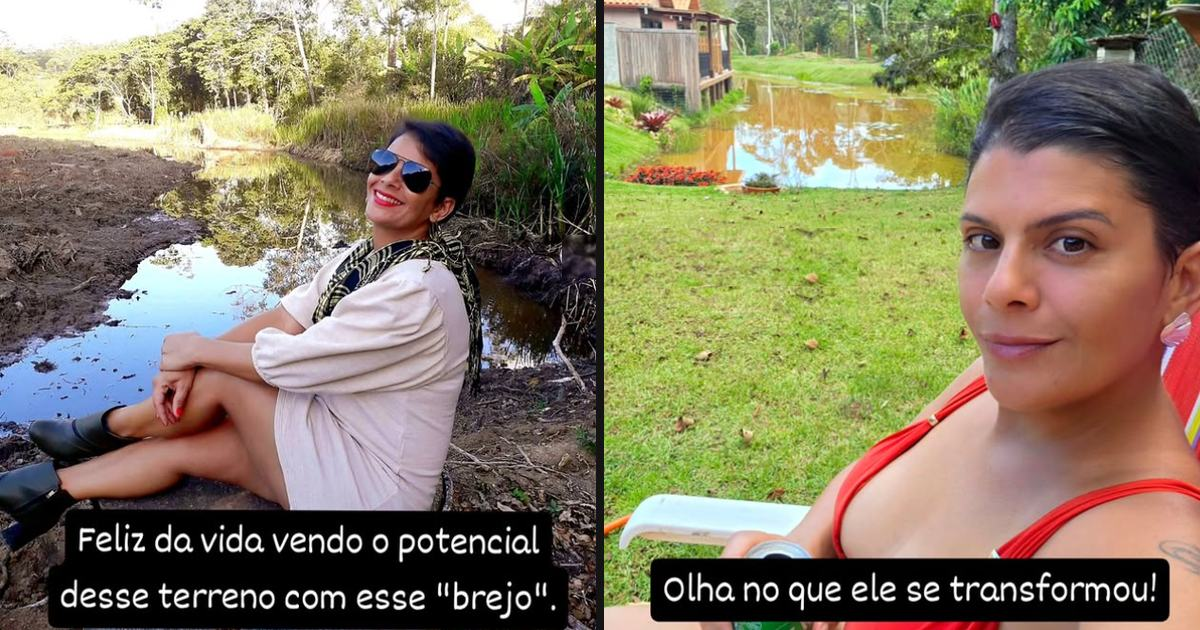
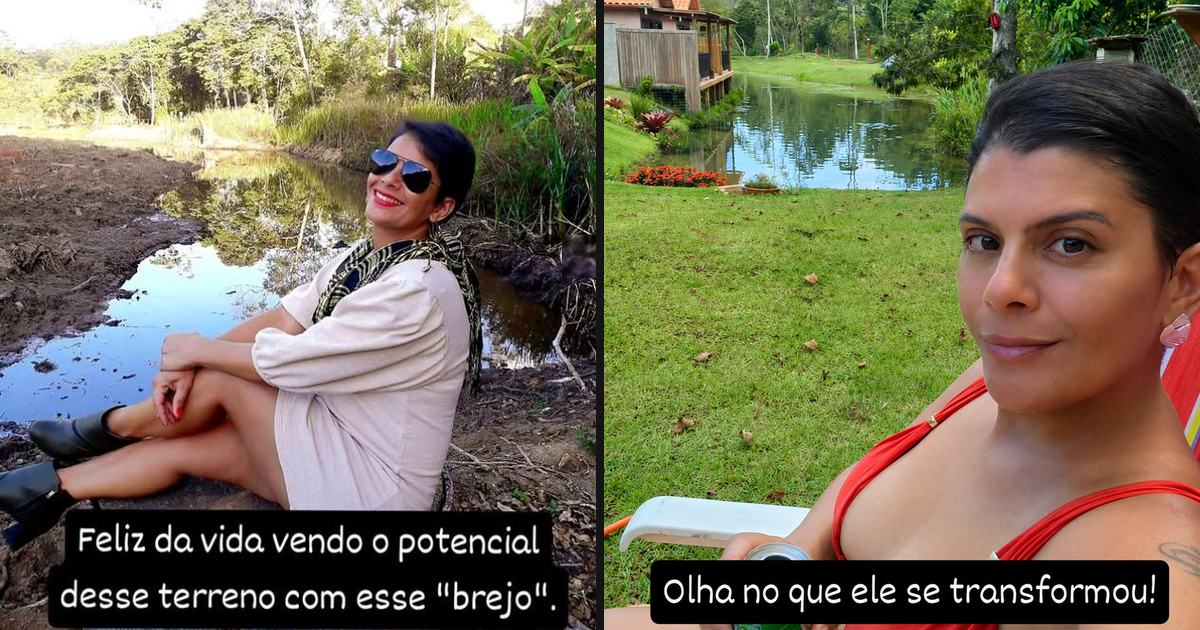
Atualiza foto do depois e ajusta trechos do artigo do lago

Changed region(s): [[0.4933, 0.0, 1.0, 1.0], [0.8017, 0.754, 0.8633, 0.8143]]

diff --git a/blog/brejo-virou-lago-potencial-do-terreno.html b/blog/brejo-virou-lago-potencial-do-terreno.html
@@ -81,7 +81,7 @@ function gtag_report_conversion(url) {
   <article class="post">
     <p class="post-meta"><a href="index.html" style="color:var(--teal);font-weight:700;">← Caderno de Campo</a> · 11 de agosto de 2026 · Antes e Depois</p>
     <h1>O "brejo" que virou lago: como olhar o potencial de um terreno</h1>
-    <p class="lede">Às vezes a gente vê uma área onde só tem terra e mato, e não consegue imaginar que aquilo pode se transformar num oásis, com criatividade, vontade e dedicação. Foi exatamente o que quase todo mundo viu no nosso pedaço de chão — e é justamente por isso que ele caiu no nosso preço.</p>
+    <p class="lede">Às vezes a gente vê uma área onde só tem terra e mato, e não consegue imaginar que aquilo pode se transformar num oásis, com criatividade, vontade e dedicação. Foi exatamente o que quase todo mundo viu no nosso pedaço de chão — e é justamente por isso que compramos ele.</p>
 
     <h2>Quando compramos, era feio</h2>
     <p>Não tem outra palavra. Era feio, sem vida, seco. Terra batida cor de lama, mato alto por toda parte, nada de grama. E no fundo tinha um "brejo", como muitos chamavam.</p>
@@ -103,7 +103,7 @@ function gtag_report_conversion(url) {
 
     <figure>
       <span class="ba-tag">Depois</span>
-      <img src="img/terreno-depois-lago.jpg" alt="Milla tomando sol com um lago, grama verde, canteiro de flores vermelhas e a casa ao fundo, no mesmo terreno depois das melhorias" width="635" height="802" loading="lazy">
+      <img src="img/terreno-depois-lago.jpg" alt="Milla tomando sol com um lago, grama verde, canteiro de flores vermelhas e a casa ao fundo, no mesmo terreno depois das melhorias" width="900" height="1138" loading="lazy">
       <figcaption>O mesmo lugar, do mesmo ângulo, depois. O curso d'água represado virou lago; a terra exposta virou gramado.</figcaption>
     </figure>
 
@@ -153,7 +153,7 @@ function gtag_report_conversion(url) {
       <li><strong>Vista:</strong> o que se vê do ponto mais alto — e o que pode ser construído na frente disso.</li>
       <li><strong>Acesso:</strong> a estrada serve em qualquer época do ano? Caminhão de material chega?</li>
       <li><strong>Entorno:</strong> quem são os vizinhos e para onde a região está andando.</li>
-      <li><strong>Documentação:</strong> matrícula em ordem, medidas conferidas, e se é possível construir ali o que você quer construir.</li>
+      <li><strong>Documentação:</strong> contratos em ordem, medidas conferidas, e se é possível construir ali o que você deseja.</li>
     </ul>
     <p>Mato alto, terra exposta e feiúra não entram nessa lista. Falta de água, acesso ruim e documentação torta entram — e essas três não se resolvem com grama.</p>
 
